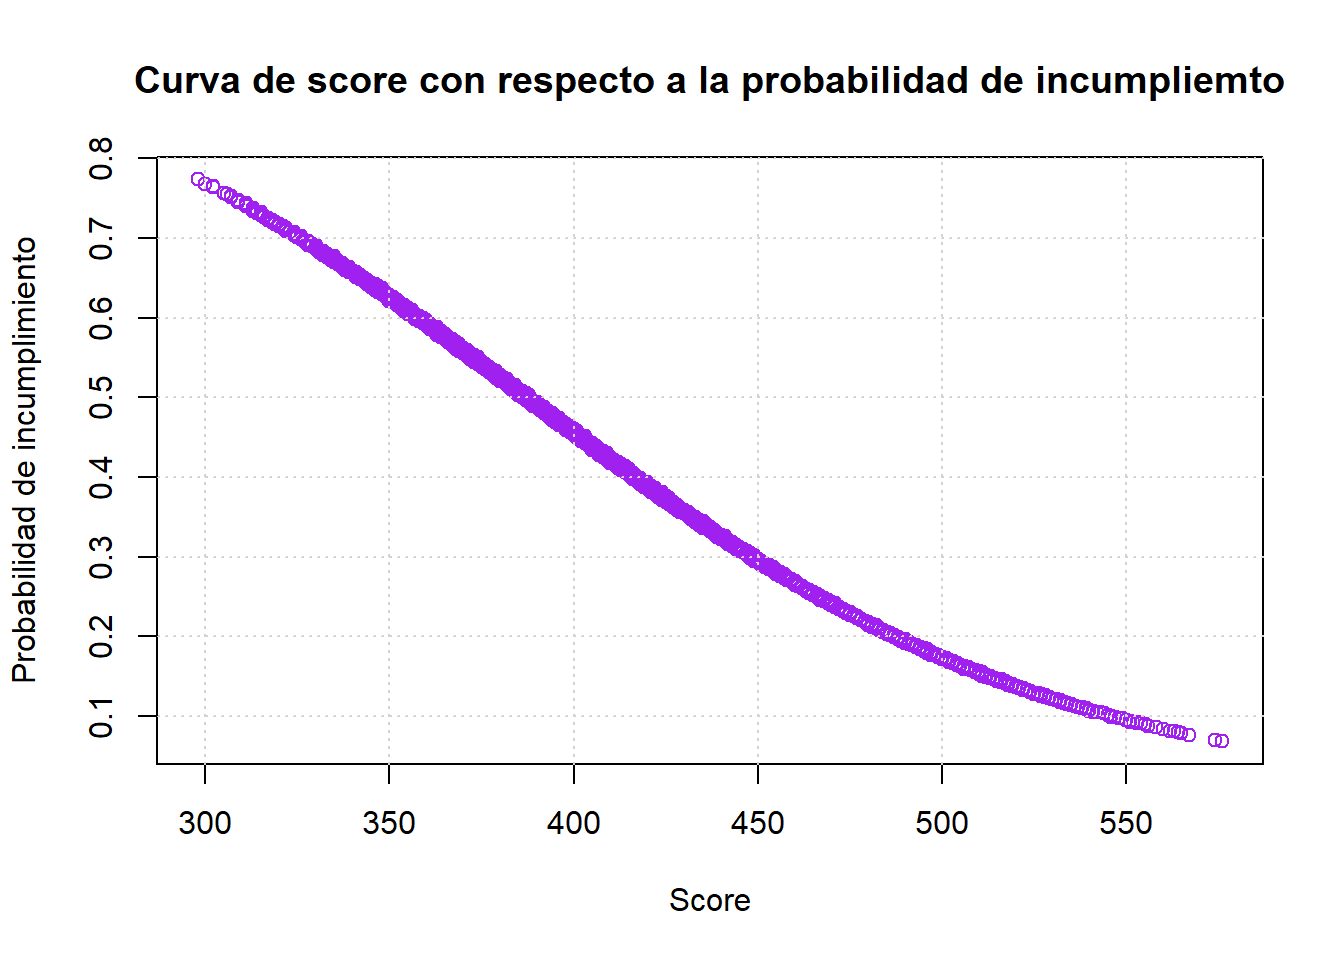
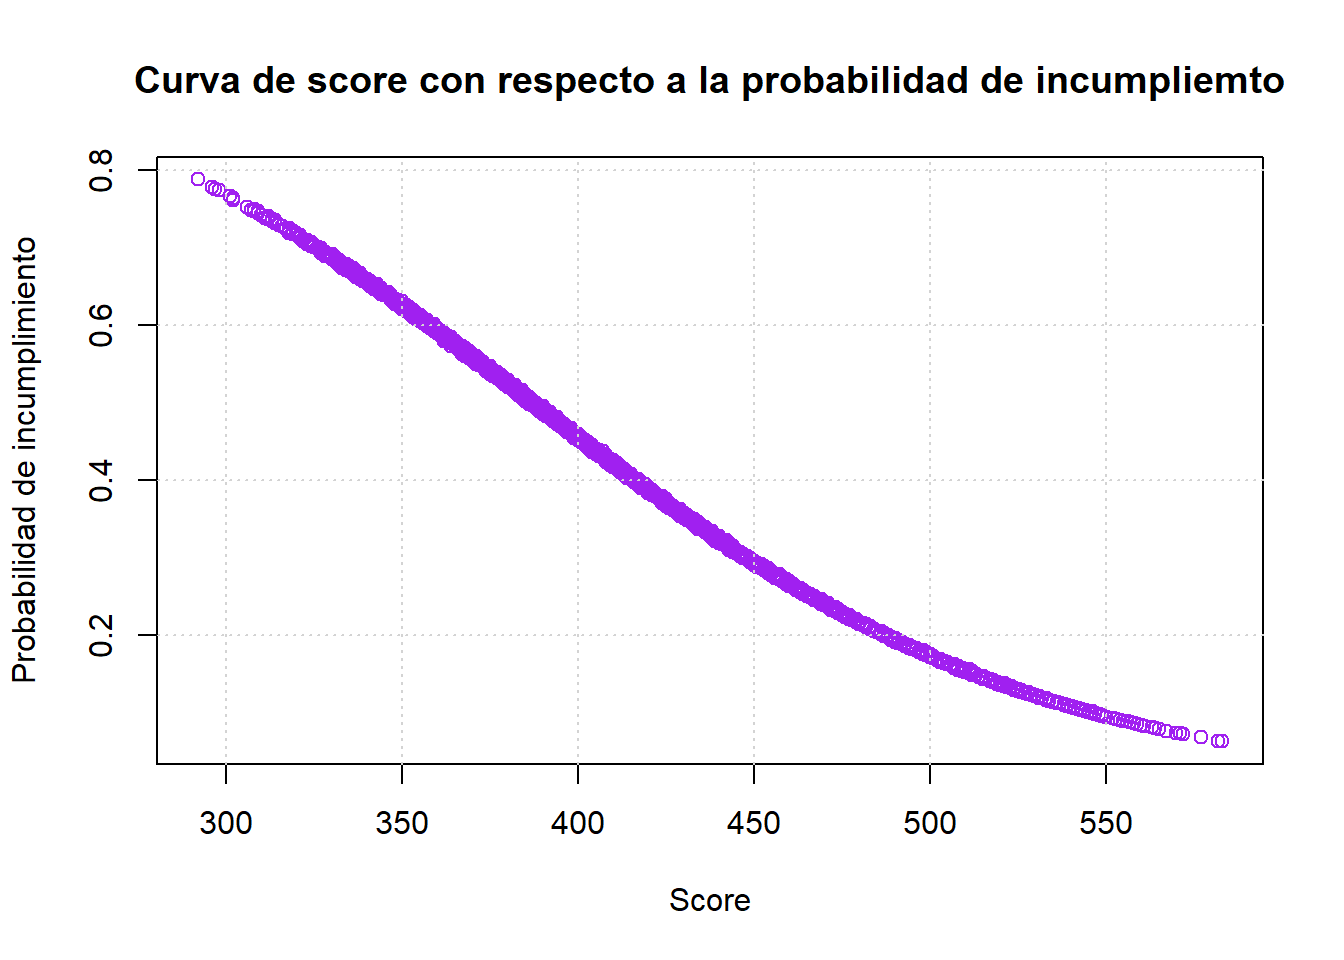
Links, cambios

diff --git a/Trabajo2TAE.html b/Trabajo2TAE.html
@@ -189,12 +189,12 @@ ul.task-list{list-style: none;}
  </thead>
 <tbody>
   <tr>
-   <td style="text-align:left;"> Incumple </td>
-   <td style="text-align:right;"> 459099 </td>
-  </tr>
-  <tr>
    <td style="text-align:left;"> Cumple </td>
    <td style="text-align:right;"> 458553 </td>
+  </tr>
+  <tr>
+   <td style="text-align:left;"> Incumple </td>
+   <td style="text-align:right;"> 458410 </td>
   </tr>
 </tbody>
 </table>
@@ -268,66 +268,66 @@ ul.task-list{list-style: none;}
 <tbody>
 <tr class="odd">
 <td style="text-align: center;"><strong>(Intercept)</strong></td>
-<td style="text-align: center;">0.003762</td>
-<td style="text-align: center;">0.007711</td>
-<td style="text-align: center;">0.4879</td>
-<td style="text-align: center;">0.6256</td>
+<td style="text-align: center;">0.001859</td>
+<td style="text-align: center;">0.007724</td>
+<td style="text-align: center;">0.2406</td>
+<td style="text-align: center;">0.8098</td>
 </tr>
 <tr class="even">
 <td style="text-align: center;"><strong>loan_amnt_woe</strong></td>
-<td style="text-align: center;">0.0706</td>
-<td style="text-align: center;">0.09868</td>
-<td style="text-align: center;">0.7155</td>
-<td style="text-align: center;">0.4743</td>
+<td style="text-align: center;">0.2866</td>
+<td style="text-align: center;">0.09675</td>
+<td style="text-align: center;">2.962</td>
+<td style="text-align: center;">0.003057</td>
 </tr>
 <tr class="odd">
 <td style="text-align: center;"><strong>int_rate_woe</strong></td>
-<td style="text-align: center;">0.8976</td>
-<td style="text-align: center;">0.01686</td>
-<td style="text-align: center;">53.23</td>
+<td style="text-align: center;">0.9267</td>
+<td style="text-align: center;">0.01666</td>
+<td style="text-align: center;">55.61</td>
 <td style="text-align: center;">0</td>
 </tr>
 <tr class="even">
 <td style="text-align: center;"><strong>installment_woe</strong></td>
-<td style="text-align: center;">0.8196</td>
-<td style="text-align: center;">0.08456</td>
-<td style="text-align: center;">9.692</td>
-<td style="text-align: center;">3.255e-22</td>
+<td style="text-align: center;">0.6936</td>
+<td style="text-align: center;">0.08164</td>
+<td style="text-align: center;">8.496</td>
+<td style="text-align: center;">1.965e-17</td>
 </tr>
 <tr class="odd">
 <td style="text-align: center;"><strong>annual_inc_woe</strong></td>
-<td style="text-align: center;">1.689</td>
-<td style="text-align: center;">0.07243</td>
-<td style="text-align: center;">23.33</td>
-<td style="text-align: center;">2.404e-120</td>
+<td style="text-align: center;">1.525</td>
+<td style="text-align: center;">0.06234</td>
+<td style="text-align: center;">24.47</td>
+<td style="text-align: center;">3.095e-132</td>
 </tr>
 <tr class="even">
 <td style="text-align: center;"><strong>open_acc_woe</strong></td>
-<td style="text-align: center;">0.9606</td>
-<td style="text-align: center;">0.05751</td>
-<td style="text-align: center;">16.7</td>
-<td style="text-align: center;">1.254e-62</td>
+<td style="text-align: center;">1.028</td>
+<td style="text-align: center;">0.0598</td>
+<td style="text-align: center;">17.19</td>
+<td style="text-align: center;">3.287e-66</td>
 </tr>
 <tr class="odd">
 <td style="text-align: center;"><strong>term_woe</strong></td>
-<td style="text-align: center;">0.03987</td>
-<td style="text-align: center;">0.03646</td>
-<td style="text-align: center;">1.093</td>
-<td style="text-align: center;">0.2742</td>
+<td style="text-align: center;">-0.04218</td>
+<td style="text-align: center;">0.03709</td>
+<td style="text-align: center;">-1.137</td>
+<td style="text-align: center;">0.2553</td>
 </tr>
 <tr class="even">
 <td style="text-align: center;"><strong>verification_status_woe</strong></td>
-<td style="text-align: center;">0.4222</td>
-<td style="text-align: center;">0.04032</td>
-<td style="text-align: center;">10.47</td>
-<td style="text-align: center;">1.15e-25</td>
+<td style="text-align: center;">0.4452</td>
+<td style="text-align: center;">0.04284</td>
+<td style="text-align: center;">10.39</td>
+<td style="text-align: center;">2.693e-25</td>
 </tr>
 <tr class="odd">
 <td style="text-align: center;"><strong>purpose_woe</strong></td>
-<td style="text-align: center;">0.4166</td>
-<td style="text-align: center;">0.06898</td>
-<td style="text-align: center;">6.04</td>
-<td style="text-align: center;">1.544e-09</td>
+<td style="text-align: center;">0.3453</td>
+<td style="text-align: center;">0.07731</td>
+<td style="text-align: center;">4.467</td>
+<td style="text-align: center;">7.935e-06</td>
 </tr>
 </tbody>
 </table>
@@ -340,11 +340,11 @@ ul.task-list{list-style: none;}
 <tbody>
 <tr class="odd">
 <td style="text-align: center;">Null deviance:</td>
-<td style="text-align: center;">101770 on 73411 degrees of freedom</td>
+<td style="text-align: center;">101694 on 73356 degrees of freedom</td>
 </tr>
 <tr class="even">
 <td style="text-align: center;">Residual deviance:</td>
-<td style="text-align: center;">95501 on 73403 degrees of freedom</td>
+<td style="text-align: center;">95249 on 73348 degrees of freedom</td>
 </tr>
 </tbody>
 </table>
@@ -405,12 +405,12 @@ ul.task-list{list-style: none;}
 </thead>
 <tbody>
 <tr class="odd">
-<td style="text-align: center;">298</td>
-<td style="text-align: center;">353</td>
+<td style="text-align: center;">292</td>
+<td style="text-align: center;">354</td>
 <td style="text-align: center;">379</td>
-<td style="text-align: center;">387.5</td>
+<td style="text-align: center;">387.8</td>
 <td style="text-align: center;">414</td>
-<td style="text-align: center;">576</td>
+<td style="text-align: center;">583</td>
 </tr>
 </tbody>
 </table>
@@ -423,16 +423,20 @@ ul.task-list{list-style: none;}
 <p>También podemos observar en la Tabla 4 valores obtenidos al calcular el score a cada uno de los registros del dataset trabajado, vemos que el score minimo, el score maximo , el score promedio, entre otros.</p>
 </section>
 </section>
+<section id="links" class="level2">
+<h2 class="anchored" data-anchor-id="links">4- Links</h2>
+<ul>
+<li><p>Para conocer la aplicación web que creamos utilizando el modelo creado, haz click, <a href="https://sebasrendon12.shinyapps.io/myapp2/"> aquí </a> .</p></li>
+<li><p>Para conocer el video donde explicamos acerca del funcionamiento de la aplicación, haz click, <a href="https://sebasrendon12.shinyapps.io/myapp2/"> aquí </a> .</p></li>
+</ul>
+</section>
 <section id="referencias" class="level2">
-<h2 class="anchored" data-anchor-id="referencias">4- Referencias</h2>
+<h2 class="anchored" data-anchor-id="referencias">5- Referencias</h2>
 <ul>
 <li><p>Ng Yong Kad. (2020). Credit Scoring Development Using R. 2022, 15 de ocubre 2022, de rpubs. Sitio web: https://rpubs.com/ngyongkad/scorecard</p></li>
 <li><p>CRAN. (2022). Package ‘scorecard’. 2022, 15 de ocubre 2022, de Package ‘scorecard’. Sitio web: https://cran.r-project.org/web/packages/scorecard/scorecard.pdf</p></li>
 <li><p>Lunardon N., Menardi G. &amp; Torelli N.. (2022). Package ‘ROSE’. 2022, noviembre 5, de cran.r. Sitio web: https://cran.r-project.org/web/packages/ROSE/ROSE.pdf</p></li>
 </ul>
-<div class="cell">
-
-</div>
 </section>
 
 </main>
